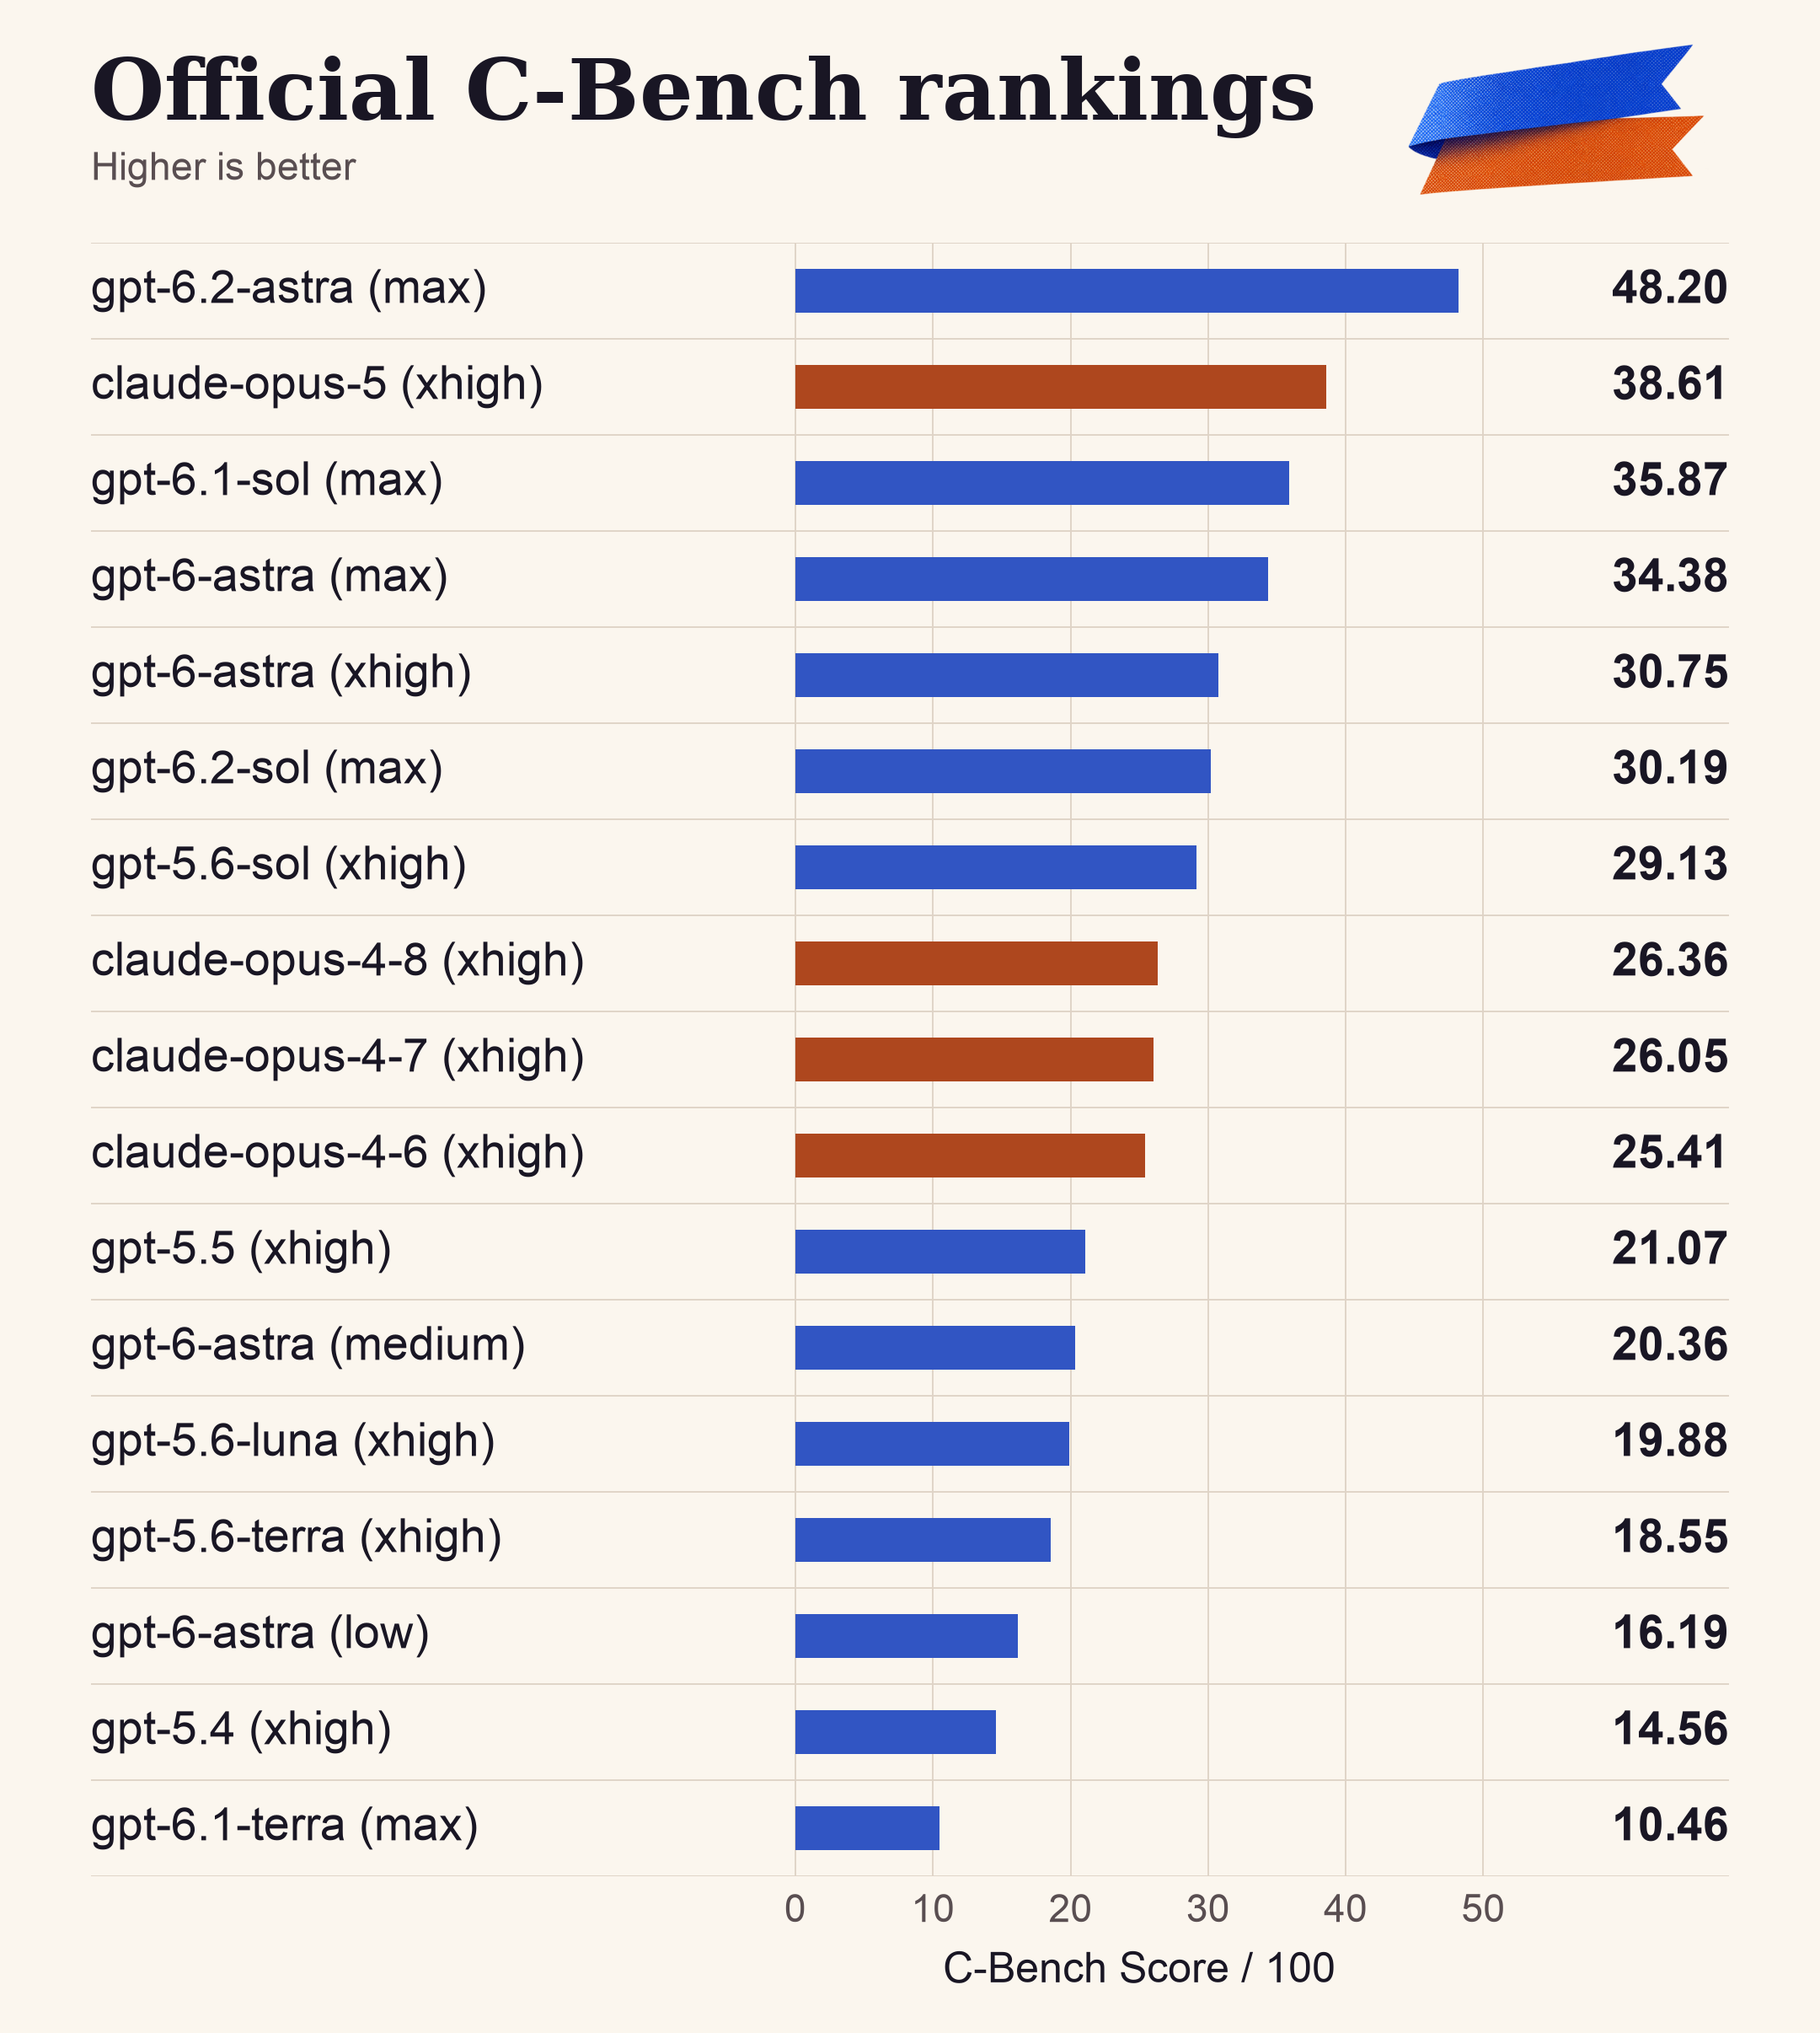
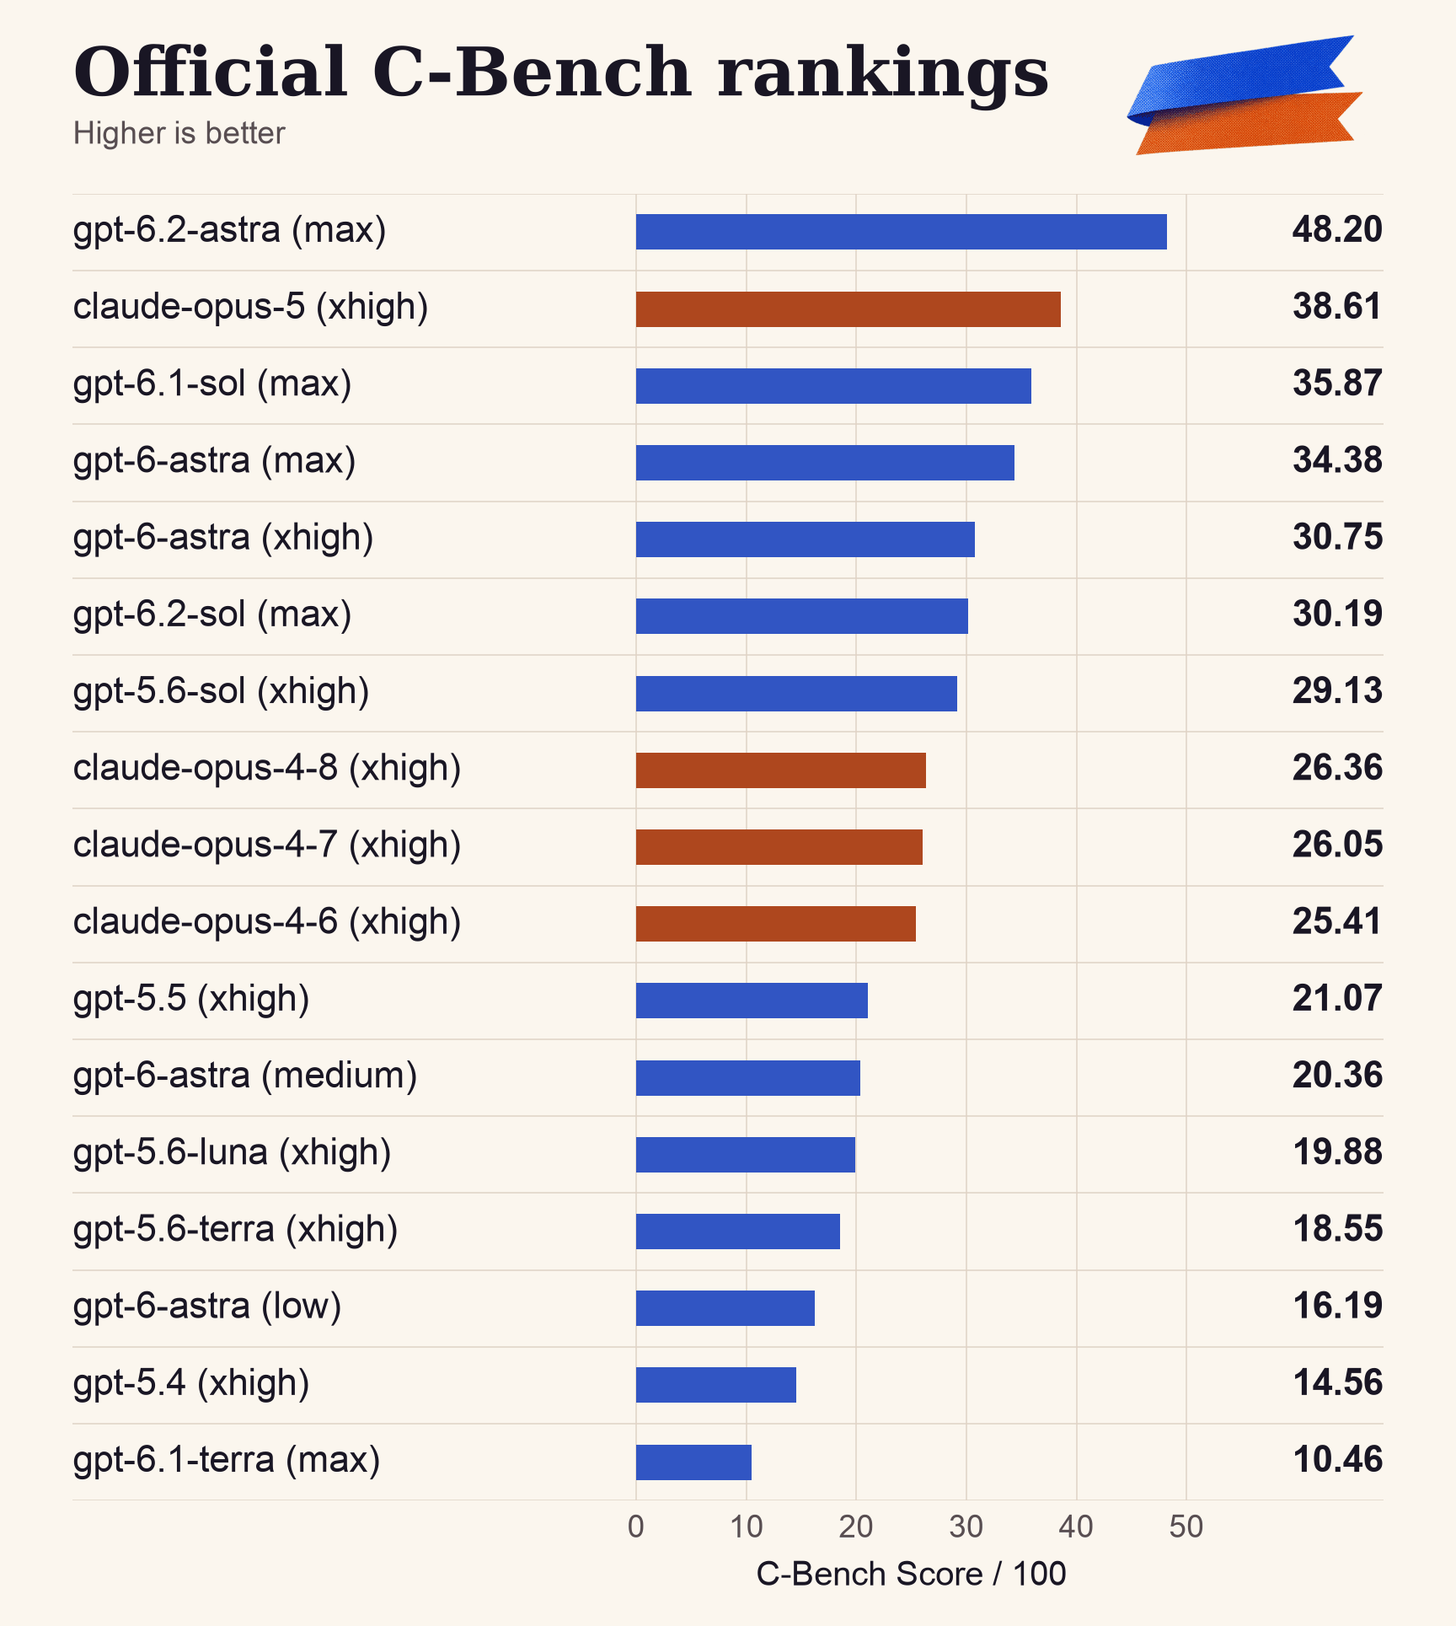
Optimize the README leaderboard PNG for web

diff --git a/scripts/plot_official_leaderboard.py b/scripts/plot_official_leaderboard.py
@@ -2,6 +2,7 @@ from __future__ import annotations
 
 import csv
 import hashlib
+from io import BytesIO
 import json
 from math import ceil
 from pathlib import Path
@@ -22,6 +23,7 @@ TIFF_PATH = ASSET_DIR / "cbench-official-leaderboard.tiff"
 QA_PATH = ASSET_DIR / "cbench-official-leaderboard.qa.json"
 HEADER_ART_PATH = ASSET_DIR / "cbench-leaderboard-ribbons.png"
 FIGURE_WIDTH = 7.2
+WEB_PNG_DPI = 240
 ROW_HEIGHT = 0.38
 HEADER_HEIGHT = 0.96
 FOOTER_HEIGHT = 0.62
@@ -180,12 +182,14 @@ def plot(rows: list[dict[str, str]]) -> tuple[float, float]:
             "Title": TITLE,
         },
     )
-    figure.savefig(
-        PNG_PATH,
-        format="png",
-        dpi=300,
-        metadata={"Title": TITLE},
-    )
+    with BytesIO() as png_buffer:
+        figure.savefig(png_buffer, format="png", dpi=WEB_PNG_DPI)
+        png_buffer.seek(0)
+        with Image.open(png_buffer) as image:
+            web_image = image.convert("RGB").quantize(
+                colors=256, dither=Image.Dither.NONE
+            )
+            web_image.save(PNG_PATH, optimize=True, dpi=(WEB_PNG_DPI, WEB_PNG_DPI))
     figure.savefig(
         TIFF_PATH,
         format="tiff",
@@ -217,14 +221,15 @@ def write_qa(rows: list[dict[str, str]], figure_size: tuple[float, float]) -> No
         "png_dimensions_px": png_dimensions,
         "figure_size_inches": list(figure_size),
         "figure_width_mm": round(figure_size[0] * 25.4, 2),
-        "png_dpi": 300,
+        "png_dpi": WEB_PNG_DPI,
+        "png_bytes": PNG_PATH.stat().st_size,
         "python": platform.python_version(),
         "matplotlib": mpl.__version__,
         "private_data_included": False,
         "validation_notes": [
             "The 183 mm width matches a common double-column figure.",
             "Height grows with the number of ranked entries to preserve row spacing.",
-            "Raster exports use 300 dpi for the README; vector exports remain editable.",
+            "The README uses an optimized indexed PNG; TIFF is exported at 300 dpi.",
             "The validator's log-guard warning refers to the documented score "
             "formula; score inputs are validated by cbench.generation_track.",
         ],
